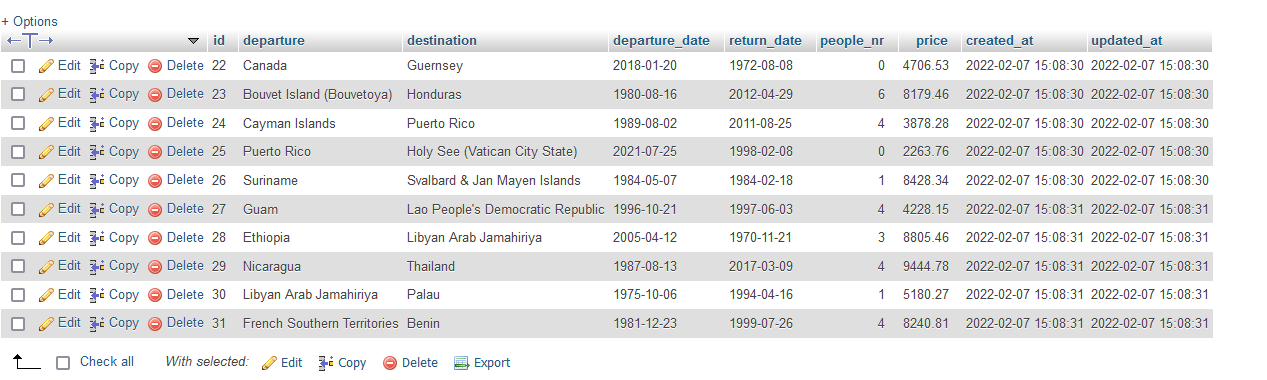
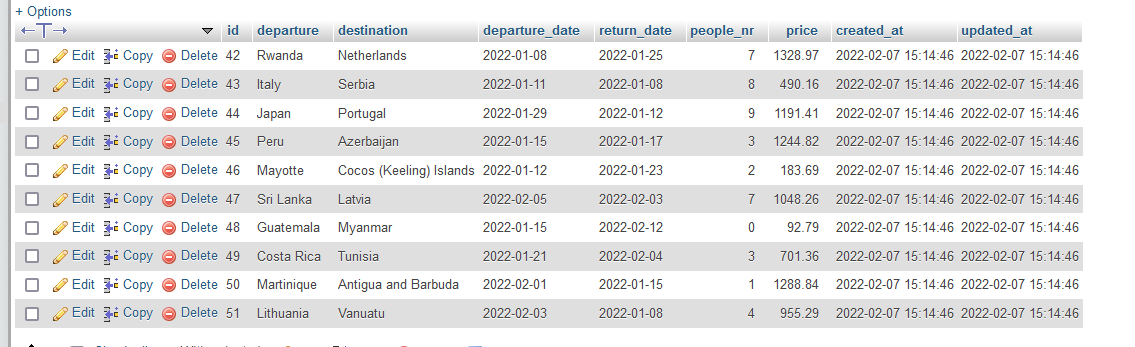
fix

diff --git a/database/seeds/packetsTableSeeder.php b/database/seeds/packetsTableSeeder.php
@@ -17,10 +17,10 @@ class packetsTableSeeder extends Seeder
             $NewPacket = new Packet();
             $NewPacket->departure = $faker->country();
             $NewPacket->destination= $faker->country();
-            $NewPacket->departure_date= $faker->date();
-            $NewPacket->return_date = $faker->date();
+            $NewPacket->departure_date= $faker->dateTimeThisMonth();
+            $NewPacket->return_date = $faker->dateTimeThisMonth('+10days');
             $NewPacket->people_nr= $faker->randomDigit();
-            $NewPacket->price = $faker->randomFloat(2, 50, 10000);
+            $NewPacket->price = $faker->randomFloat(2, 50, 1500);
             $NewPacket->save();
         }
     }
